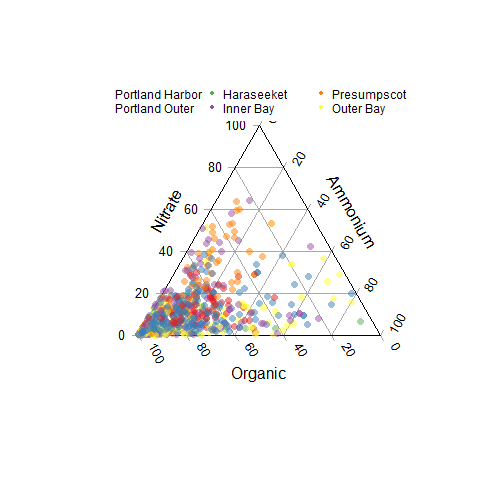
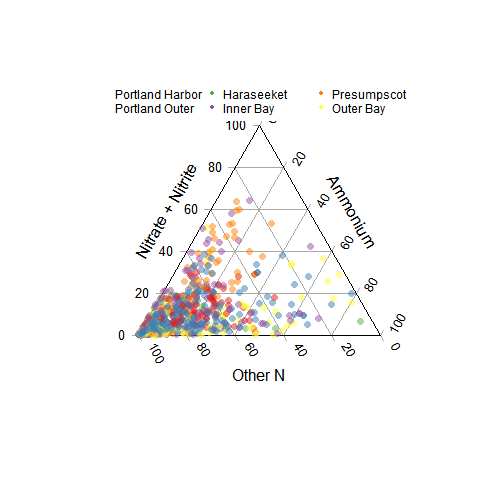
Convert label of third axis of ternary diagrams from "Organic" to "Other N" and "Nitrate" to "Nitrate + Nitrite"

Changed region(s): [[0.2812, 0.3438, 0.4062, 0.5312], [0.4688, 0.75, 0.5938, 0.8125]]

diff --git a/Graphics/FOCB_Nutrients_Ternary.md b/Graphics/FOCB_Nutrients_Ternary.md
@@ -23,7 +23,7 @@ Curtis C. Bohlen, Casco Bay Estuary Partnership.
 
 This notebook Looks at DIN and TN numbers from Friends of Casco Bay
 samples and produces “ternary plots” showing the relative importance or
-ammonium, nitrates, and organic nitrogen in Casco Bay waters.
+ammonium, nitrates, and “organic” nitrogen in Casco Bay waters.
 
 FOCB reports the TN samples and DIN samples were sent to different
 laboratories, and so direct comparison relies on consistent calibration
@@ -106,7 +106,7 @@ strict_data <- read_csv(file.path(sibling,
 #>   dt = col_datetime(format = ""),
 #>   year = col_double(),
 #>   yearf = col_double(),
-#>   month = col_logical(),
+#>   month = col_character(),
 #>   doy = col_double(),
 #>   tn_depth = col_double(),
 #>   din_depth = col_double(),
@@ -137,7 +137,7 @@ proportion_data <- strict_data %>%
 ### By Five Year “Eras”
 
 ``` r
-TernaryPlot(alab = 'Nitrate', blab = 'Ammonium', clab = 'Organic',
+TernaryPlot(alab = 'Nitrate + Nitrite', blab = 'Ammonium', clab = 'Other N',
             grid.lines = 5, grid.minor.lines = 0)
 TernaryPoints(proportion_data[4:6], pch = 20, col = cbep_colors()[proportion_data$era + 1])
 legend('topright', 
@@ -211,7 +211,7 @@ pal = addalpha(RColorBrewer::brewer.pal(6, 'Set1'), 0.5)
 # Cairo::Cairo(file = 'figures/ternary.png', width = 400, height = 400,
 #       type = 'png',
 #       family = 'Montserrat', pointsize = 9)
-TernaryPlot(alab = 'Nitrate', blab = 'Ammonium', clab = 'Organic',
+TernaryPlot(alab = 'Nitrate + Nitrite', blab = 'Ammonium', clab = 'Other N',
             grid.lines = 5, grid.minor.lines = 0)
 TernaryPoints(proportion_data[4:6], pch = 16, col = pal[as.numeric(proportion_data$region)])
 legend('top', ncol = 3,
@@ -236,7 +236,7 @@ device, as we can specify fonts and base font size.
 ``` r
 cairo_pdf('figures/ternary.pdf', width = 3.5, height = 5,
           family = 'Montserrat', pointsize = 8)
-TernaryPlot(alab = 'Nitrate', blab = 'Ammonium', clab = 'Organic',
+TernaryPlot(alab = 'Nitrate + Nitrite', blab = 'Ammonium', clab = 'Other N',
             grid.lines = 5, grid.minor.lines = 0)
 TernaryPoints(proportion_data[4:6], pch = 16, col = pal[as.numeric(proportion_data$region)])
 legend('top', ncol = 3,
@@ -262,7 +262,7 @@ sum_p_data <- strict_data %>%
 ```
 
 ``` r
-TernaryPlot(alab = 'Nitrate', blab = 'Ammonium', clab = 'Organic',
+TernaryPlot(alab = 'Nitrate + Nitrite', blab = 'Ammonium', clab = 'Other N',
             grid.lines = 5, grid.minor.lines = 0,
             #xlim = c(-0.5, -0.25), ylim  = c(0, .25)
             )
@@ -276,7 +276,7 @@ TernaryPoints(sum_p_data[2:4])
 ```
 
 ``` r
-TernaryPlot(alab = 'Nitrate', blab = 'Ammonium', clab = 'Organic',
+TernaryPlot(alab = 'Nitrate + Nitrite', blab = 'Ammonium', clab = 'Other N',
             grid.lines = 5, grid.minor.lines = 0,
             xlim = c(-0.5, -0.25), ylim  = c(0, .25))
 #TernaryPoints(sum_p_data[2:4])
